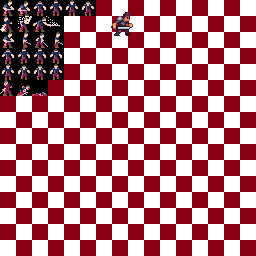
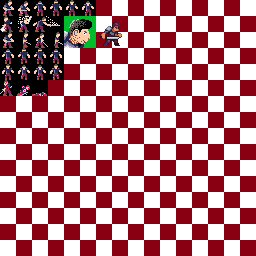
test character sprites

Changed region(s): [[0.25, 0.0312, 0.5312, 0.1875]]

diff --git a/Application.py b/Application.py
@@ -53,7 +53,8 @@ class App:
         # handle character
         playerX = min(self.player.x, 128)
         playerY = min(self.player.y, 128)
-        pyxel.rect(playerX, playerY, playerX + 8, playerY +16, 9)
+        pyxel.blt(playerX, playerY, self.charactersPalette, 0, 0, 16, 16, 0)
+        #pyxel.rect(playerX, playerY, playerX + 8, playerY +16, 9)
 
         # handle multiple overlay (object height)
         playerExceptionX = math.floor(self.player.x/16)
@@ -63,10 +64,17 @@ class App:
         self.mapRenderer.draw(self.overlay2, camX, camY, playerExceptionX, playerExceptionY)
         self.mapRenderer.draw(self.overlay3, camX, camY, playerExceptionX, playerExceptionY)
 
+        #creepy face
+        pyxel.blt(0,14*16, self.charactersPalette, 4*16, 1*16, 32,32, 11)
+
     def LoadMap(self):
         ## create the map
         ## load the tile palette
-        self.tilePalette = pyxel.image(0).load(0, 0, 'ressources/map2tileset.png')
+        pyxel.image(0).load(0, 0, 'ressources/map2tileset.png')
+        self.tilePalette = 0
+
+        pyxel.image(1).load(0, 0, 'ressources/characters.png')
+        self.charactersPalette = 1
         
         self.map = Tilemap.ImportMap(["ressources/map2_background.csv", "ressources/map2_objects1.csv"], 50,50)
 
